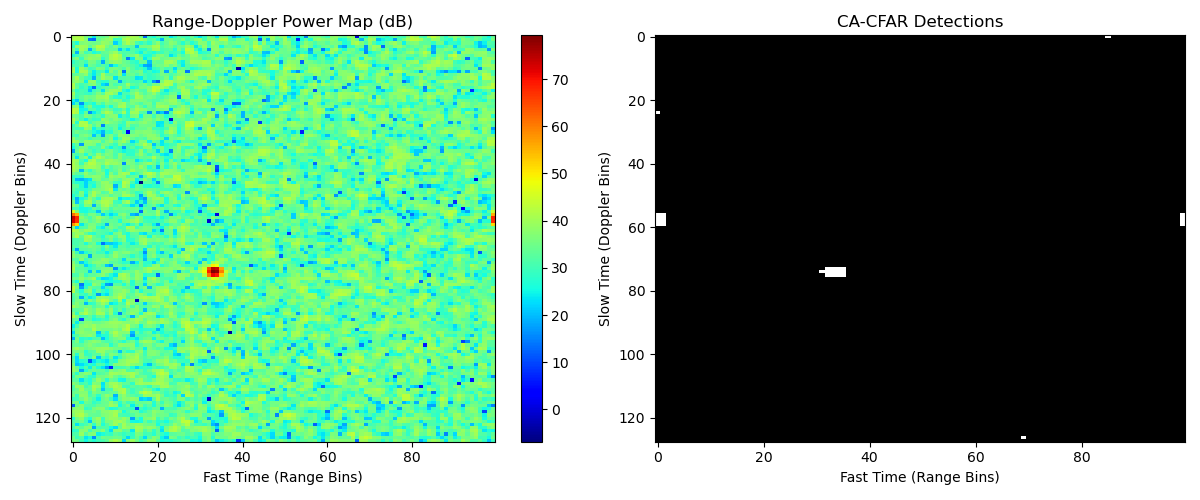
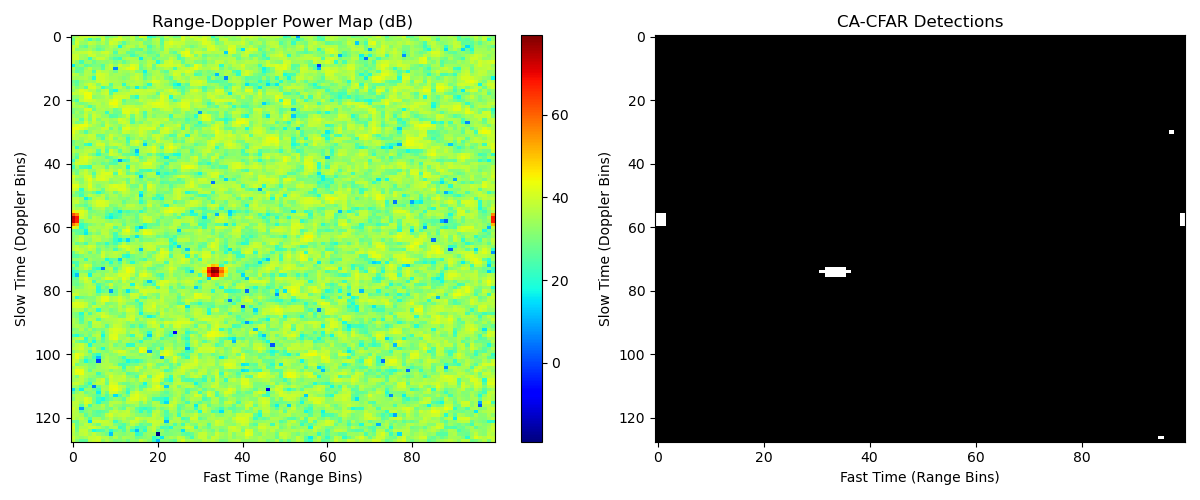
updates

diff --git a/PIPELINE_WORKFLOW.md b/PIPELINE_WORKFLOW.md
@@ -658,4 +658,85 @@ docker exec cusignal-cusignal-dev-1 python /app/cusignal_project/scripts/run_son
 
 ---
 
-Generated: March 29, 2026 | CuSignal Project | GPU-Accelerated Signal Processing
+
+---------------------------------------------------------------------
+RADAR_OUTPUT :
+
+Left panel is the Range-Dopler Map
+(raw signal output after FFT processing)
+
+Color Mapping:
+├─ DARK BLUE (< -50 dB):  Deep noise floor
+├─ CYAN (0-20 dB):         Noise + weak signals
+├─ YELLOW (20-40 dB):      Noise floor background
+├─ ORANGE (40-60 dB):      Signal present
+└─ DARK RED (> 60 dB):     Strong target signals 
+
+Vertical alignment: Target signals are vertically elongated because the signal bleeds across several doppler bins due to windowing effects
+Power levels: Target 1 shows more power (24 million) than Target 2 (8 million) → stronger signal due to higher RCS (10 dBsm vs 5 dBsm)
+Noise uniformity: The noise floor is relatively flat across the map → good radar design, no spatial blind spots
+
+
+Right Panel: CA-CFAR Detections 
+
+Color Mapping:
+├─ BLACK (0):  No detection (below threshold)
+└─ WHITE (1):  Detection (passed threshold) 
+
+Pure black background = Successfully rejected as noise
+5 WHITE regions = 28 total detected cells, clustered into 5 groups
+
+Cluster 0: Single white dot at (97, 30) - weak, probably noise
+Cluster 1: Bright white rectangle (0-1, 56-59) - TARGET 1 
+Cluster 2: Bright white rectangle (99, 56-59) - multipath reflection
+Cluster 3: Horizontal white line (31-36, 73-75) - TARGET 2 
+Cluster 4: Single white dot (95, 126) - extreme doppler, likely spurious
+
+
+MAIN * how CA-CFAR works so well:
+
+Removes scattered noise speckles across the map
+Adapts threshold locally → high detection confidence on targets
+Clean separation: targets pop out, noise disappears
+False Alarm Rate = 1e-5 = We expect only ~1 false detection per 100,000 cells!
+
+
+---------------------------------------------------------------------
+
+
+SOLAR_OUTPUT 
+
+X-axis (128 bins):  Spatial Frequency / Angle
+├─ 0-64:  Beams from left side (-90°)
+├─ 64:    Broadside (perpendicular, 0°)
+└─ 64-128: Beams from right side (+90°)
+
+Y-axis (100k samples): Time / Range
+├─ 0:      Near-field (close range detection)
+├─ 50k:    Mid-range
+└─ 100k:   Far-field (distant targets)
+
+COLOUR Mapping 
+
+DARK TEAL/PURPLE (< -50 dB):  Deep noise floor
+TEAL (0-20 dB):               Thermal noise
+DARK GREEN (20-40 dB):        Background
+BRIGHT YELLOW (> 40 dB):      Acoustic target signals 
+
+
+Two Bright Yellow Horizontal Lines:
+
+Upper Line (~y=40,000 range bins):
+
+Position: Around x=60 angle bin (center-right)
+Interpretation: Target 1 @ 60m range, angle=0.2 rad (11.5° right)
+Brightness: Very bright yellow (highest power on map)
+SNR: 50 (strong signal, excellent detection)
+Shape: Horizontal line because sonar shows range along x-axis for a fixed angle
+Lower Line (~y=75,000 range bins):
+
+Position: Around x=105 angle bin (far right)
+Interpretation: Target 2 @ 110m range, angle=-0.4 rad (-22.9° left)
+Brightness: Dimmer yellow than Target 1
+SNR: 30 (weaker signal, still detectable)
+Shape: Also horizontal, farther from broadside
